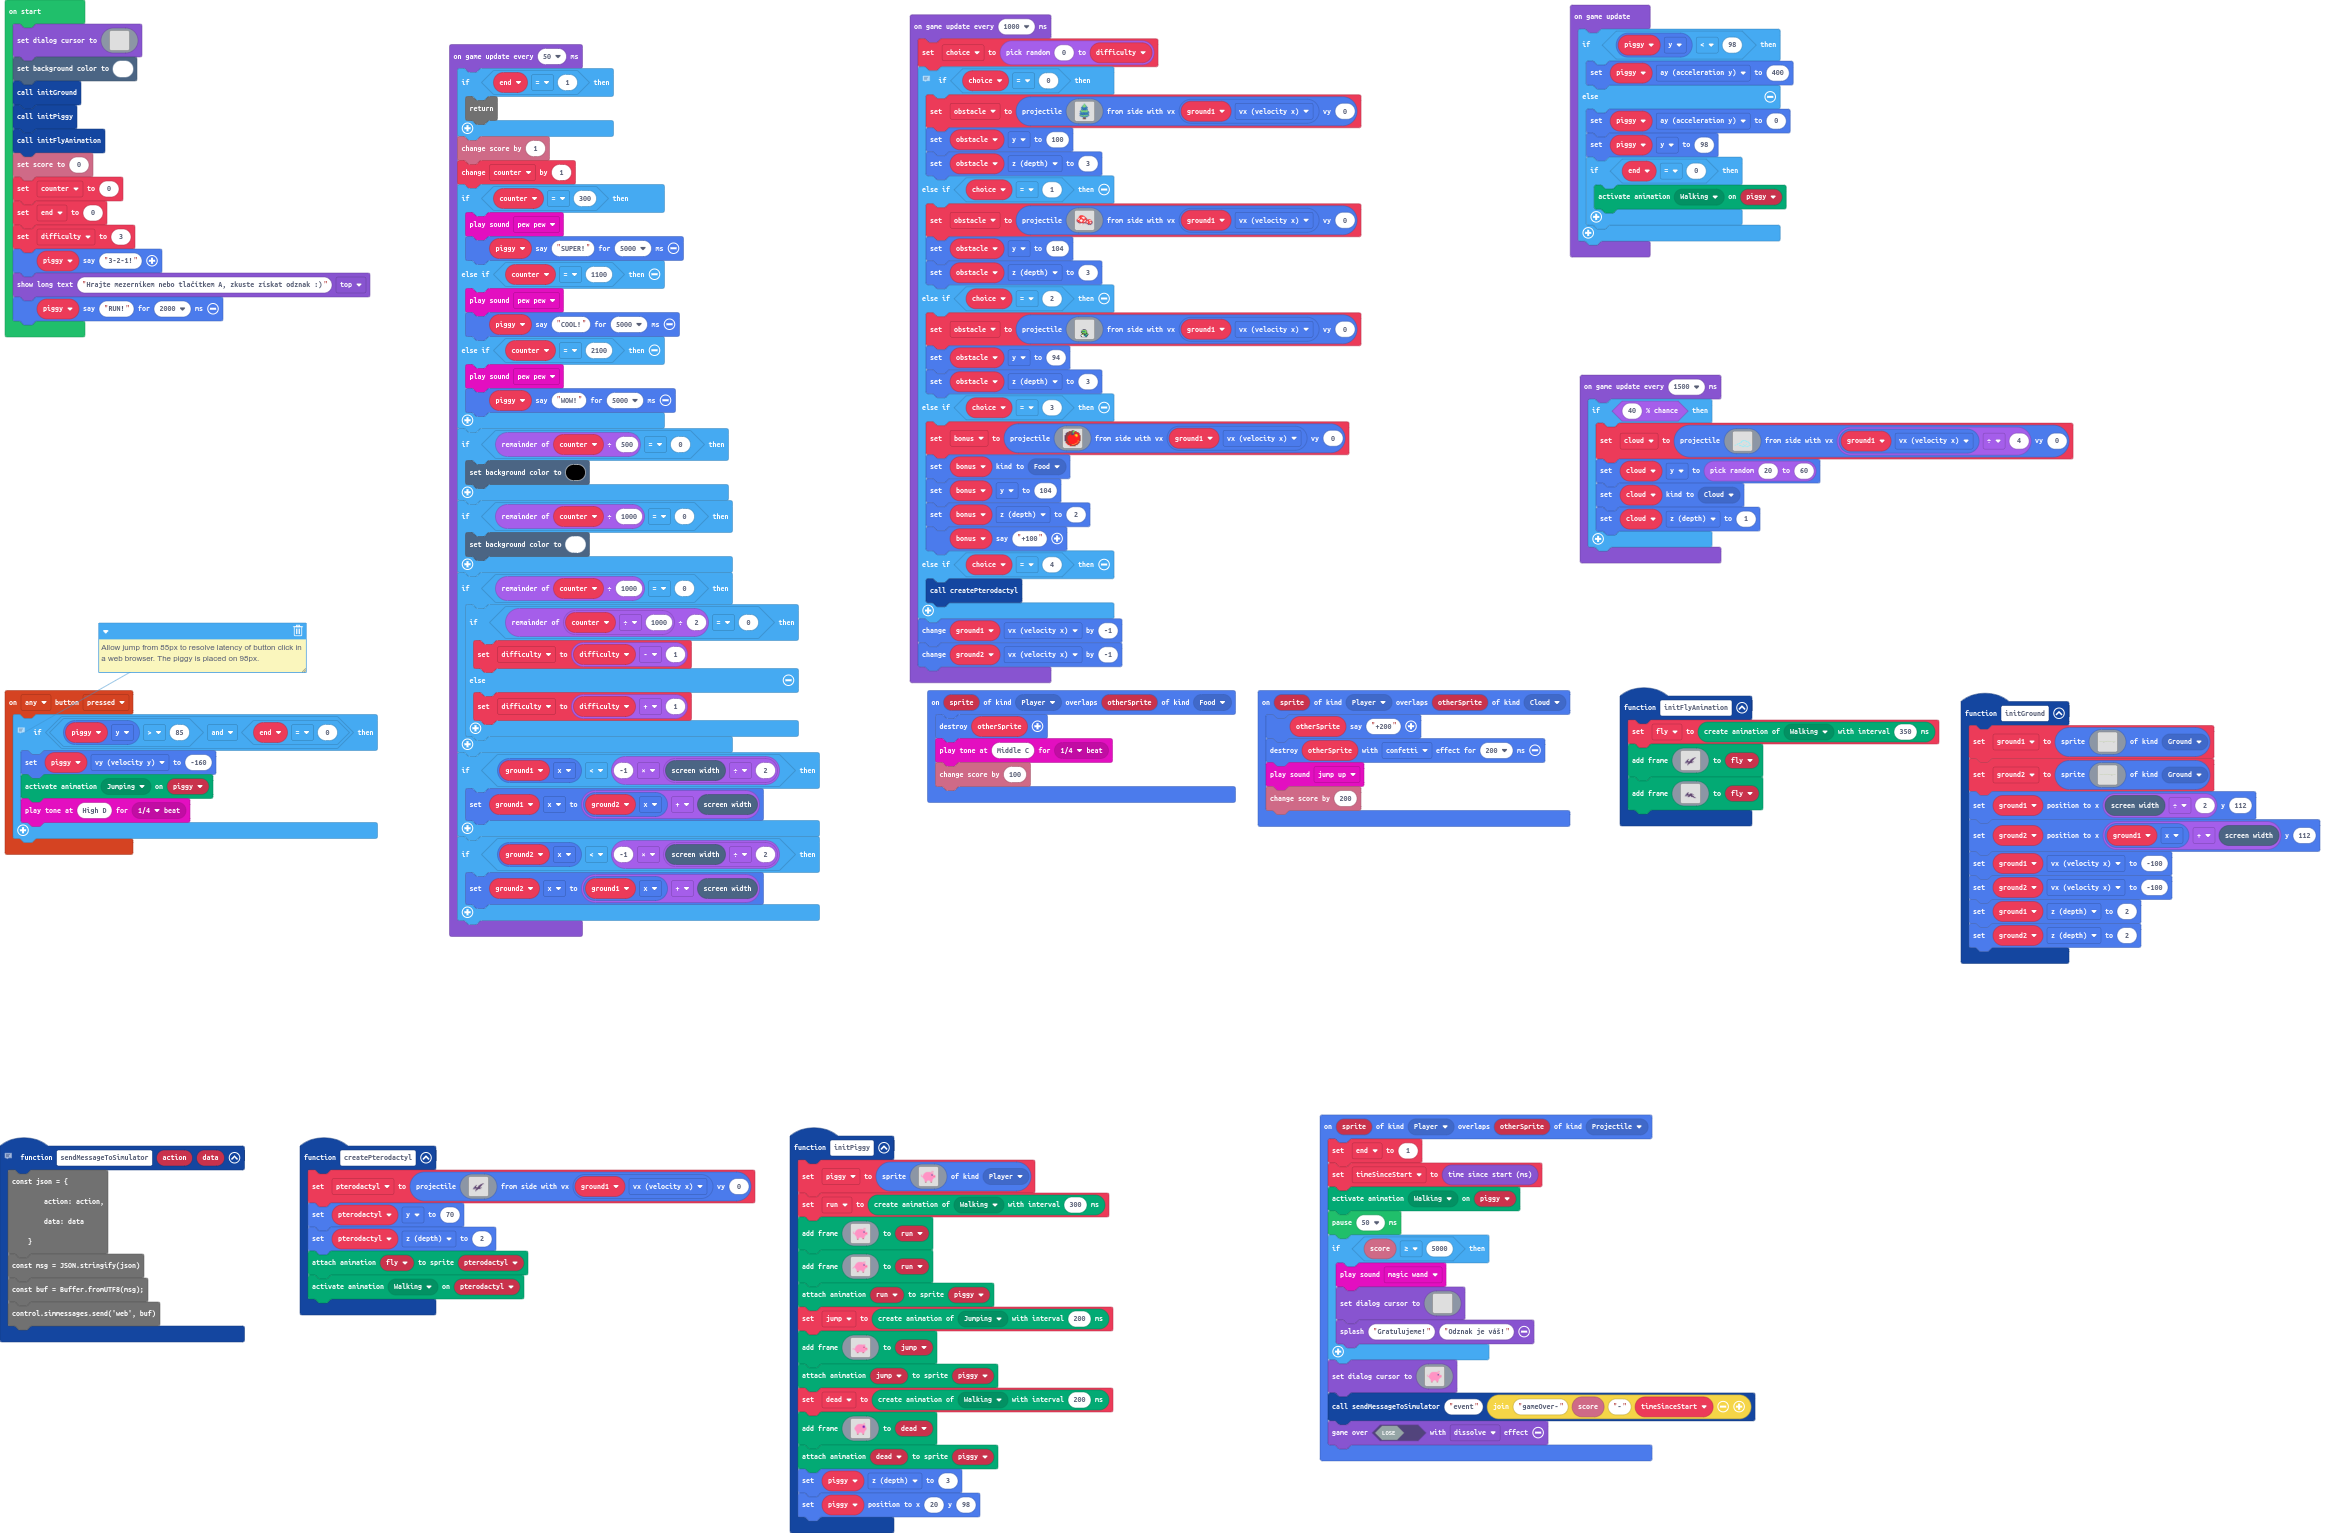
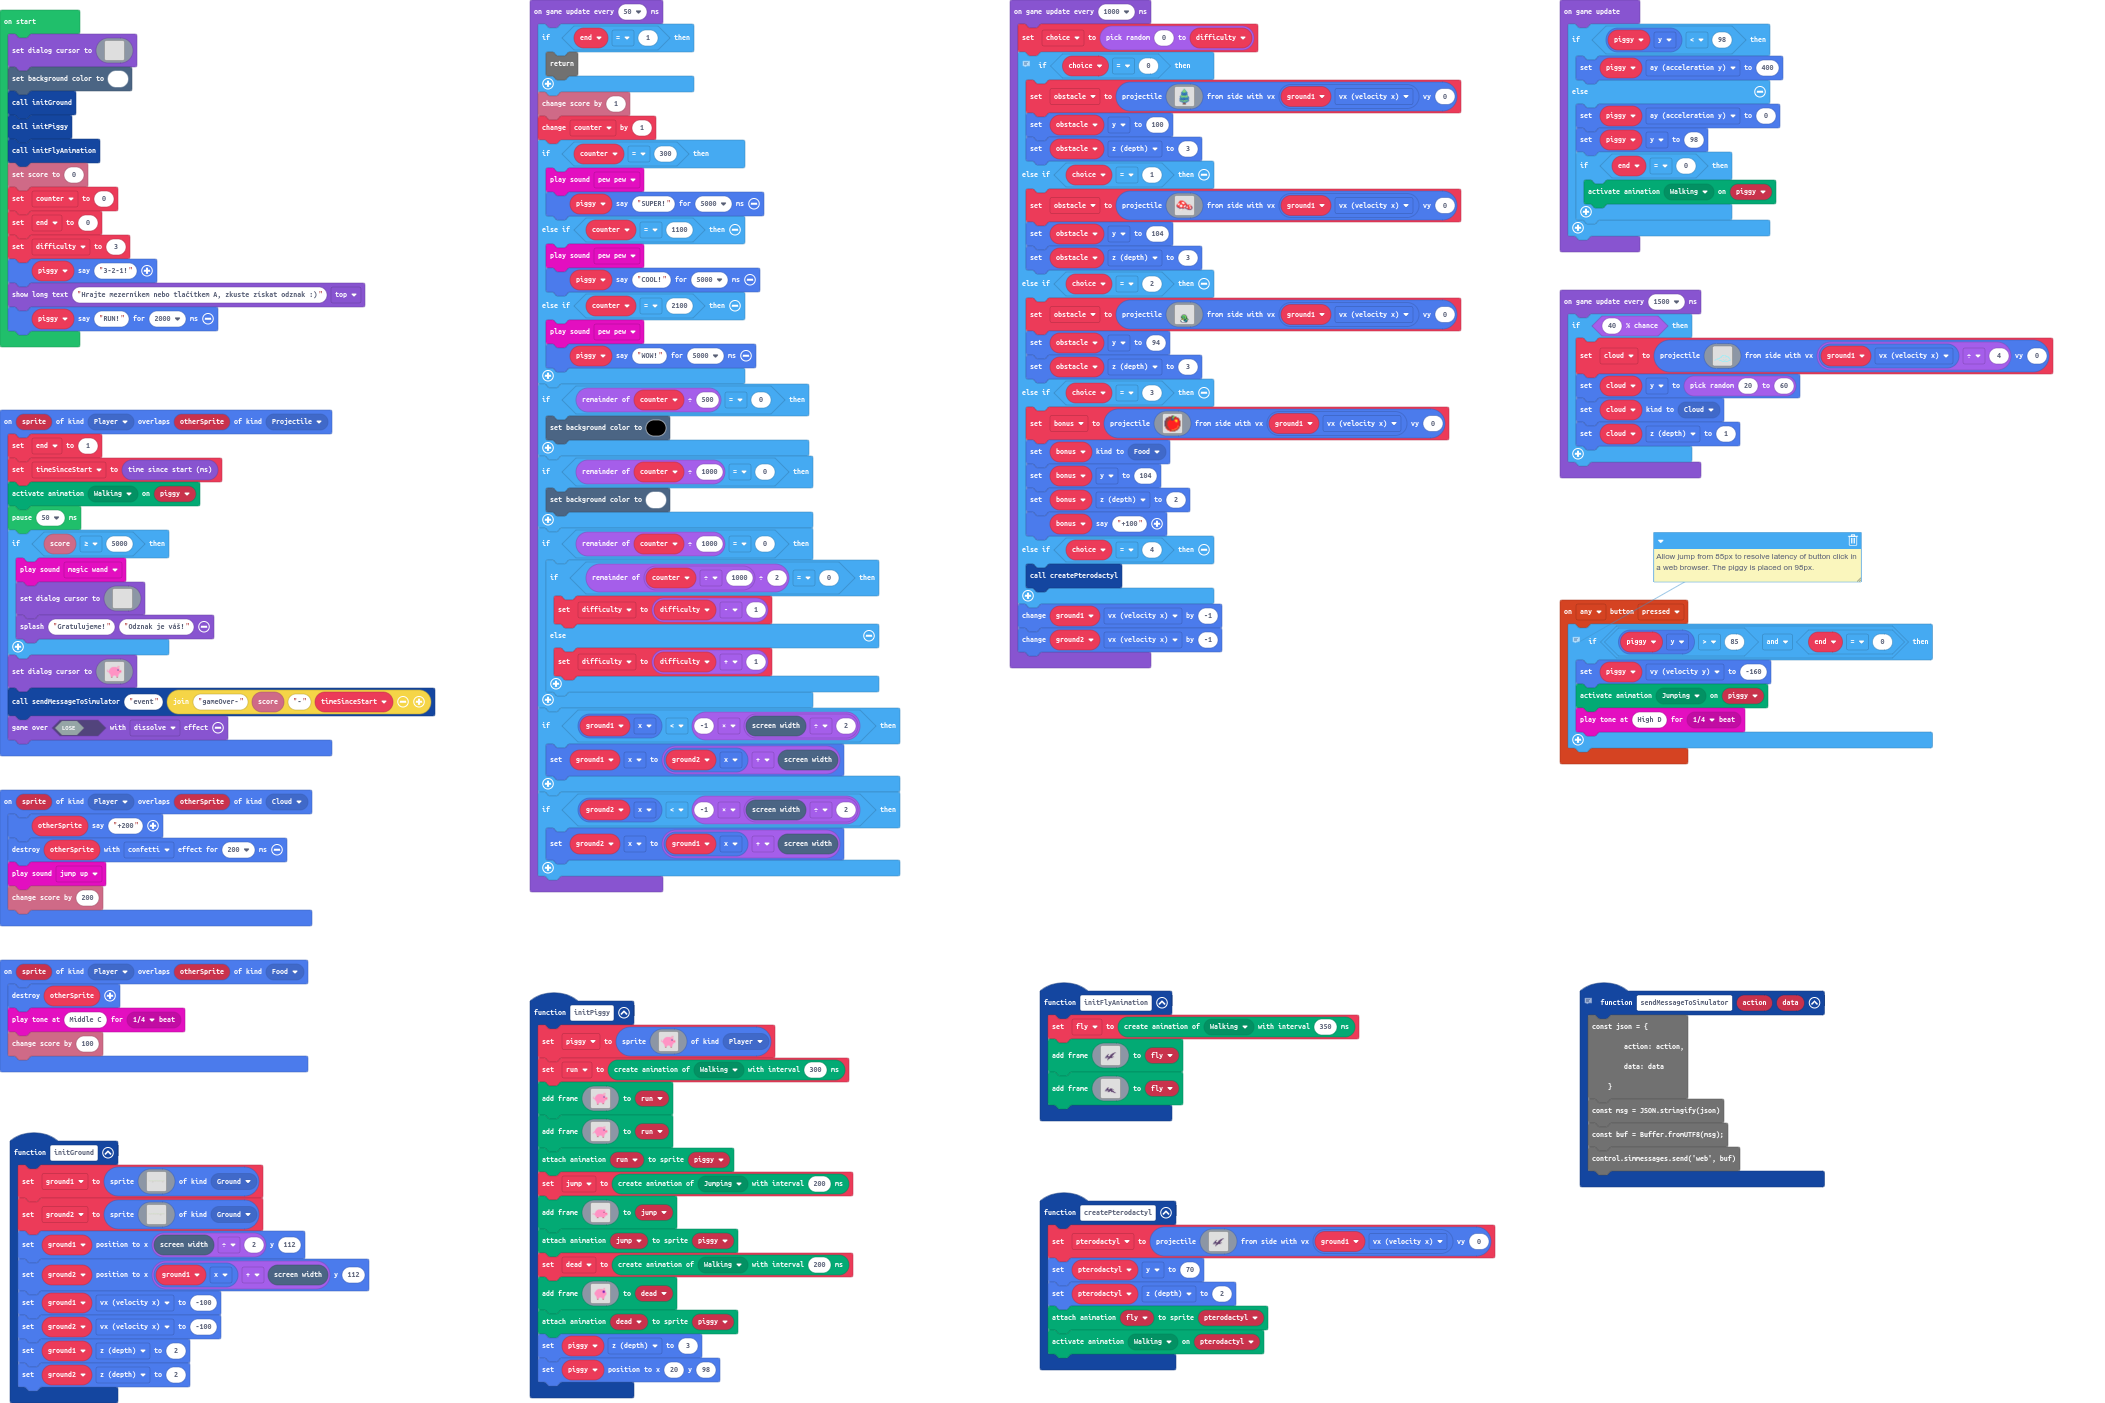
Update main.blocks, main.ts, images.g.jres, images.g.ts

diff --git a/images.g.ts b/images.g.ts
@@ -399,42 +399,6 @@ c2222111122111c2222112c.
 ...............................
 ...............................
 `;
-            case "image7":return img`
-. . . . . . . . . . . . . . . . 
-. . . . . . . . . . . . . . . . 
-. . . . . . . . . . . . . . . . 
-. . . . . . . . . . . . . . . . 
-. . . . . . . . . . . . . . . . 
-. . . . . . . . . . . . . . . . 
-. . . . . . . . . . . . . . . . 
-. . . . . . . . . . . . . . . . 
-. . . . . . . . . . . . . . . . 
-. . . . . . . . . . . . . . . . 
-. . . . . . . . . . . . . . . . 
-. . . . . . . . . . . . . . . . 
-. . . . . . . . . . . . . . . . 
-. . . . . . . . . . . . . . . . 
-. . . . . . . . . . . . . . . . 
-. . . . . . . . . . . . . . . . 
-`;
-            case "image5":return img`
-. . . . . . . . . . . . . . . . 
-. . . . . . . . . . . . . . . . 
-. . . . . . . . . . . . . . . . 
-. . . . . . . . . . . . . . . . 
-. . . . . . . . . . . . . . . . 
-. . . . . . . . . . . . . . . . 
-. . . . . . . . . . . . . . . . 
-. . . . . . . . . . . . . . . . 
-. . . . . . . . . . . . . . . . 
-. . . . . . . . . . . . . . . . 
-. . . . . . . . . . . . . . . . 
-. . . . . . . . . . . . . . . . 
-. . . . . . . . . . . . . . . . 
-. . . . . . . . . . . . . . . . 
-. . . . . . . . . . . . . . . . 
-. . . . . . . . . . . . . . . . 
-`;
             case "image18":
             case "ground 1":return img`
 ...................................................................................7777...........................................................................
@@ -472,6 +436,43 @@ c2222111122111c2222112c.
 ........................................................................................................................cd1dd1dc..................................
 .........................................................................................................................cc76cc...................................
 ..........................................................................................................................676.....................................
+`;
+            case "image5":
+            case "empty":return img`
+. . . . . . . . . . . . . . . . 
+. . . . . . . . . . . . . . . . 
+. . . . . . . . . . . . . . . . 
+. . . . . . . . . . . . . . . . 
+. . . . . . . . . . . . . . . . 
+. . . . . . . . . . . . . . . . 
+. . . . . . . . . . . . . . . . 
+. . . . . . . . . . . . . . . . 
+. . . . . . . . . . . . . . . . 
+. . . . . . . . . . . . . . . . 
+. . . . . . . . . . . . . . . . 
+. . . . . . . . . . . . . . . . 
+. . . . . . . . . . . . . . . . 
+. . . . . . . . . . . . . . . . 
+. . . . . . . . . . . . . . . . 
+. . . . . . . . . . . . . . . . 
+`;
+            case "image7":return img`
+. . . . . . . . . . . . . . . . 
+. . . . . . . . . . . . . . . . 
+. . . . . . . . . . . . . . . . 
+. . . . . . . . . . . . . . . . 
+. . . . . . . . . . . . . . . . 
+. . . . . . . . . . . . . . . . 
+. . . . . . . . . . . . . . . . 
+. . . . . . . . . . . . . . . . 
+. . . . . . . . . . . . . . . . 
+. . . . . . . . . . . . . . . . 
+. . . . . . . . . . . . . . . . 
+. . . . . . . . . . . . . . . . 
+. . . . . . . . . . . . . . . . 
+. . . . . . . . . . . . . . . . 
+. . . . . . . . . . . . . . . . 
+. . . . . . . . . . . . . . . . 
 `;
         }
         return null;

diff --git a/main.ts b/main.ts
@@ -67,24 +67,7 @@ sprites.onOverlap(SpriteKind.Player, SpriteKind.Projectile, function (sprite, ot
     pause(50)
     if (info.score() >= 5000) {
         music.magicWand.play()
-        game.setDialogCursor(img`
-            . . . . . . . . . . . . . . . . 
-            . . . . . . . . . . . . . . . . 
-            . . . . . . . . . . . . . . . . 
-            . . . . . . . . . . . . . . . . 
-            . . . . . . . . . . . . . . . . 
-            . . . . . . . . . . . . . . . . 
-            . . . . . . . . . . . . . . . . 
-            . . . . . . . . . . . . . . . . 
-            . . . . . . . . . . . . . . . . 
-            . . . . . . . . . . . . . . . . 
-            . . . . . . . . . . . . . . . . 
-            . . . . . . . . . . . . . . . . 
-            . . . . . . . . . . . . . . . . 
-            . . . . . . . . . . . . . . . . 
-            . . . . . . . . . . . . . . . . 
-            . . . . . . . . . . . . . . . . 
-            `)
+        game.setDialogCursor(assets.image`empty`)
         game.splash("Gratulujeme!", "Odznak je váš!")
     }
     game.setDialogCursor(assets.image`piggy 1`)
@@ -121,24 +104,7 @@ let ground2: Sprite = null
 let ground1: Sprite = null
 let piggy: Sprite = null
 let end = 0
-game.setDialogCursor(img`
-    . . . . . . . . . . . . . . . . 
-    . . . . . . . . . . . . . . . . 
-    . . . . . . . . . . . . . . . . 
-    . . . . . . . . . . . . . . . . 
-    . . . . . . . . . . . . . . . . 
-    . . . . . . . . . . . . . . . . 
-    . . . . . . . . . . . . . . . . 
-    . . . . . . . . . . . . . . . . 
-    . . . . . . . . . . . . . . . . 
-    . . . . . . . . . . . . . . . . 
-    . . . . . . . . . . . . . . . . 
-    . . . . . . . . . . . . . . . . 
-    . . . . . . . . . . . . . . . . 
-    . . . . . . . . . . . . . . . . 
-    . . . . . . . . . . . . . . . . 
-    . . . . . . . . . . . . . . . . 
-    `)
+game.setDialogCursor(assets.image`empty`)
 scene.setBackgroundColor(1)
 initGround()
 initPiggy()
